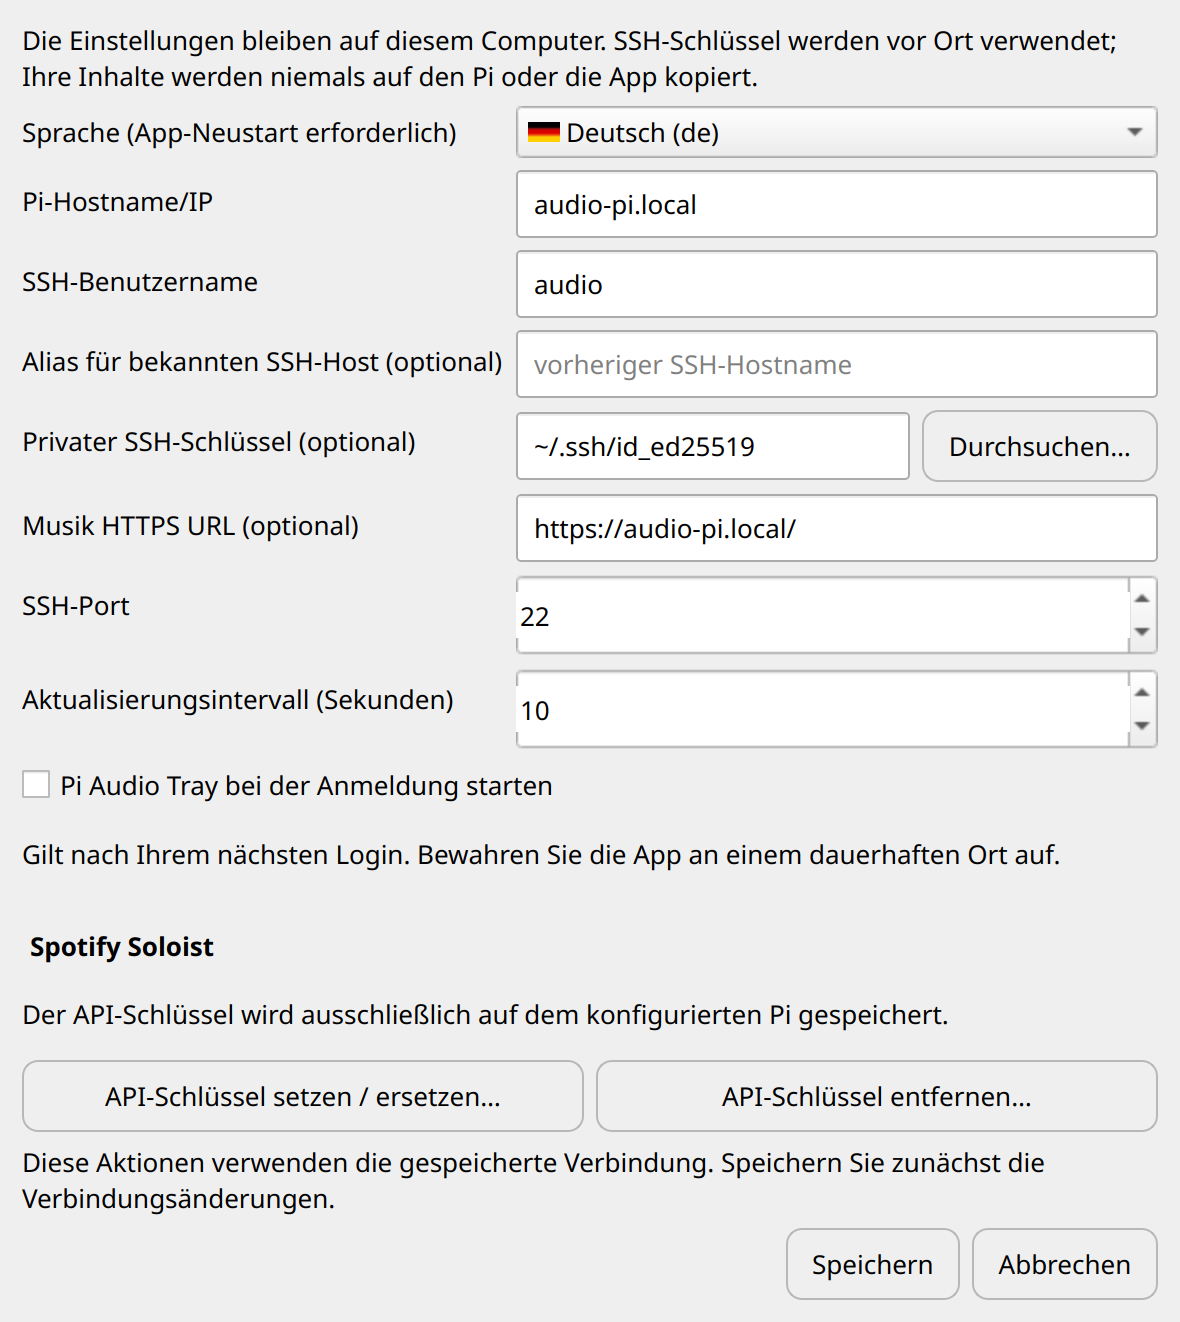
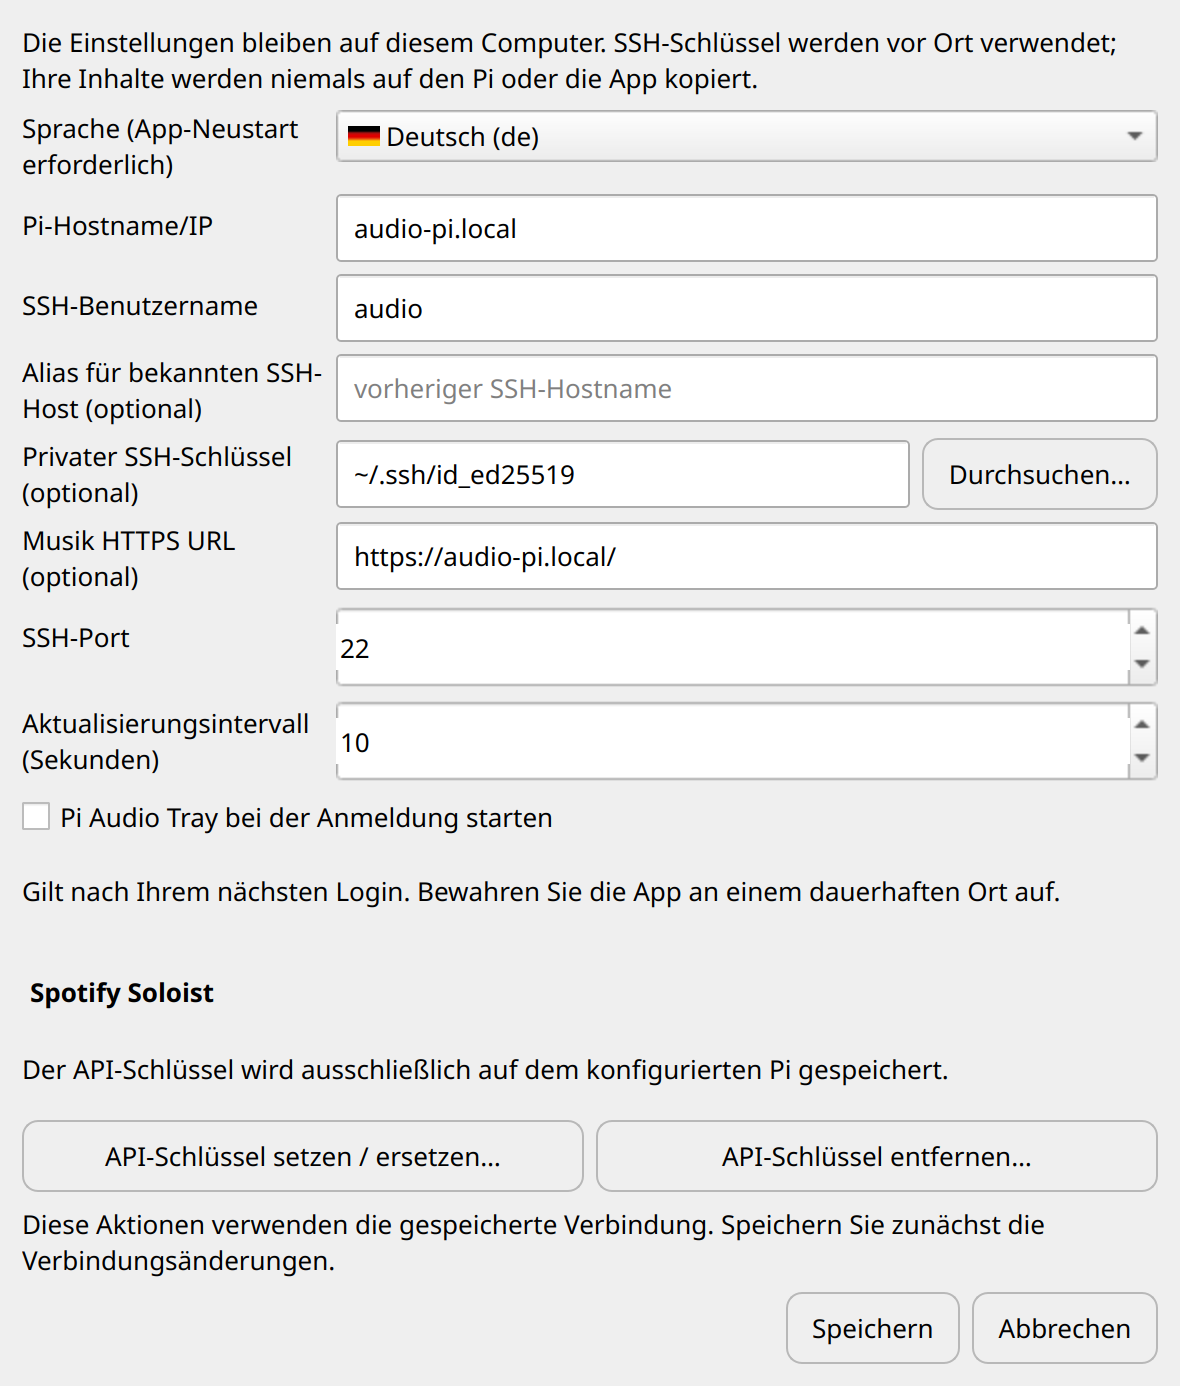
Wrap translated labels and clear stale music views on Pi switches

diff --git a/app.py b/app.py
@@ -116,6 +116,11 @@ class Settings(QDialog):
             entry.setValue(config[key])
             self.fields[key] = entry
             form.addRow(label, entry)
+        form.setRowWrapPolicy(QFormLayout.RowWrapPolicy.WrapLongRows)
+        for row in range(form.rowCount()):
+            item = form.itemAt(row, QFormLayout.ItemRole.LabelRole)
+            if item is not None and isinstance(item.widget(), QLabel):
+                item.widget().setWordWrap(True)
         layout.addLayout(form)
         self.autostart = QCheckBox(tr('Start Pi Audio Tray when I sign in'))
         self.autostart.setToolTip(tr('Starts in the tray after login on this computer. No administrator password is needed.'))
@@ -607,6 +612,7 @@ class TrayApp(QWidget):
                     plain_warning(self, tr('Autostart could not be changed'), display_text(exc))
             if self.music_window is not None:
                 self.music_window.hide()
+                self.music_window.reset_connection()
             self.config = config
             self.power_state = None
             self.generation += 1
@@ -658,6 +664,7 @@ class TrayApp(QWidget):
             return
         if self.music_window is not None:
             self.music_window.hide()
+            self.music_window.reset_connection()
         self.generation += 1
         self.busy.clear()
         self.snapshot = None

diff --git a/tests/test_music.py b/tests/test_music.py
@@ -73,6 +73,23 @@ class MusicWindowTests(unittest.TestCase):
 
 
 class MusicVisibility(MusicWindowTests):
+    def test_connection_reset_clears_previous_pi_data_without_new_commands(self):
+        self.window.library.addItem('Old Pi track')
+        self.window.queue.addItem('Old Pi queue')
+        self.window.path = 'Old Pi album'
+        self.window.busy = True
+        self.window.pending_requests = [({'action': 'play'}, {}, 0, False)]
+        self.window.page_contexts = {'browse': ('Old Pi album', 0)}
+        with patch('music_ui.music_request') as request:
+            self.window.reset_connection()
+        request.assert_not_called()
+        self.assertEqual(self.window.library.count(), 0)
+        self.assertEqual(self.window.queue.count(), 0)
+        self.assertEqual(self.window.path, '')
+        self.assertFalse(self.window.pending_requests)
+        self.assertFalse(self.window.page_contexts)
+        self.assertTrue(self.window.busy)  # The old worker must still complete safely.
+
     def test_hidden_window_does_not_request_status(self):
         with patch('music_ui.music_request') as request:
             self.window.refresh_status()

diff --git a/tests/test_upnp.py b/tests/test_upnp.py
@@ -166,6 +166,22 @@ class NetworkUI(unittest.TestCase):
         self.window.deleteLater()
         self.parent.deleteLater()
 
+    def test_connection_reset_discards_old_sources_without_contacting_a_pi(self):
+        self.window.server = {'id': 'old'}
+        self.window.sources.addItem('Old server')
+        self.window.items.addItem('Old track')
+        self.window.pending = [({'action': 'network_play'}, {}, 0)]
+        self.window.busy = True
+        with patch('network_ui.music_request') as request:
+            self.window.reset_connection()
+        request.assert_not_called()
+        self.assertIsNone(self.window.server)
+        self.assertIsNone(self.window.connection)
+        self.assertEqual(self.window.items.count(), 0)
+        self.assertEqual(self.window.sources.count(), 0)
+        self.assertFalse(self.window.pending)
+        self.assertTrue(self.window.busy)
+
     def test_no_background_or_hidden_requests(self):
         self.window.hide()
         with patch('network_ui.music_request') as request:

diff --git a/music_ui.py b/music_ui.py
@@ -88,6 +88,21 @@ class MusicWindow(QDialog):
         self.timer.setInterval(5000)
         self.timer.timeout.connect(self.refresh_status)
 
+    def reset_connection(self):
+        """Drop old library/queue data without destroying an in-flight worker."""
+        self.pending_requests.clear()
+        self.path, self.offset, self.queue_offset, self.more = '', 0, 0, False
+        self.page_contexts.clear()
+        self.library.clear()
+        self.queue.clear()
+        self.tabs.setCurrentIndex(0)
+        self.location.setText(tr('Library'))
+        self.now.setText(tr('Player not checked yet'))
+        self.message.setText(tr('Double-click a folder to browse, or a track to play it.'))
+        self.volume.setValue(0)
+        if self.network_window is not None:
+            self.network_window.reset_connection()
+
     def request(self, request, background=False):
         if not self.isVisible() or self.isMinimized():
             return

diff --git a/network_ui.py b/network_ui.py
@@ -60,6 +60,17 @@ class NetworkWindow(QDialog):
         self.message.setWordWrap(True)
         layout.addWidget(self.message)
 
+    def reset_connection(self):
+        self.hide()
+        self.pending.clear()
+        self.connection, self.server = None, None
+        self.history = [('0', tr('Library'))]
+        self.offset, self.more = 0, False
+        self.sources.clear()
+        self.items.clear()
+        self.location.setText(tr('Double-click an enabled server to browse.'))
+        self.message.setText(tr('Discovery runs only when requested. Servers must be awake and reachable from the Pi.'))
+
     def request(self, request):
         if not self.isVisible():
             return
